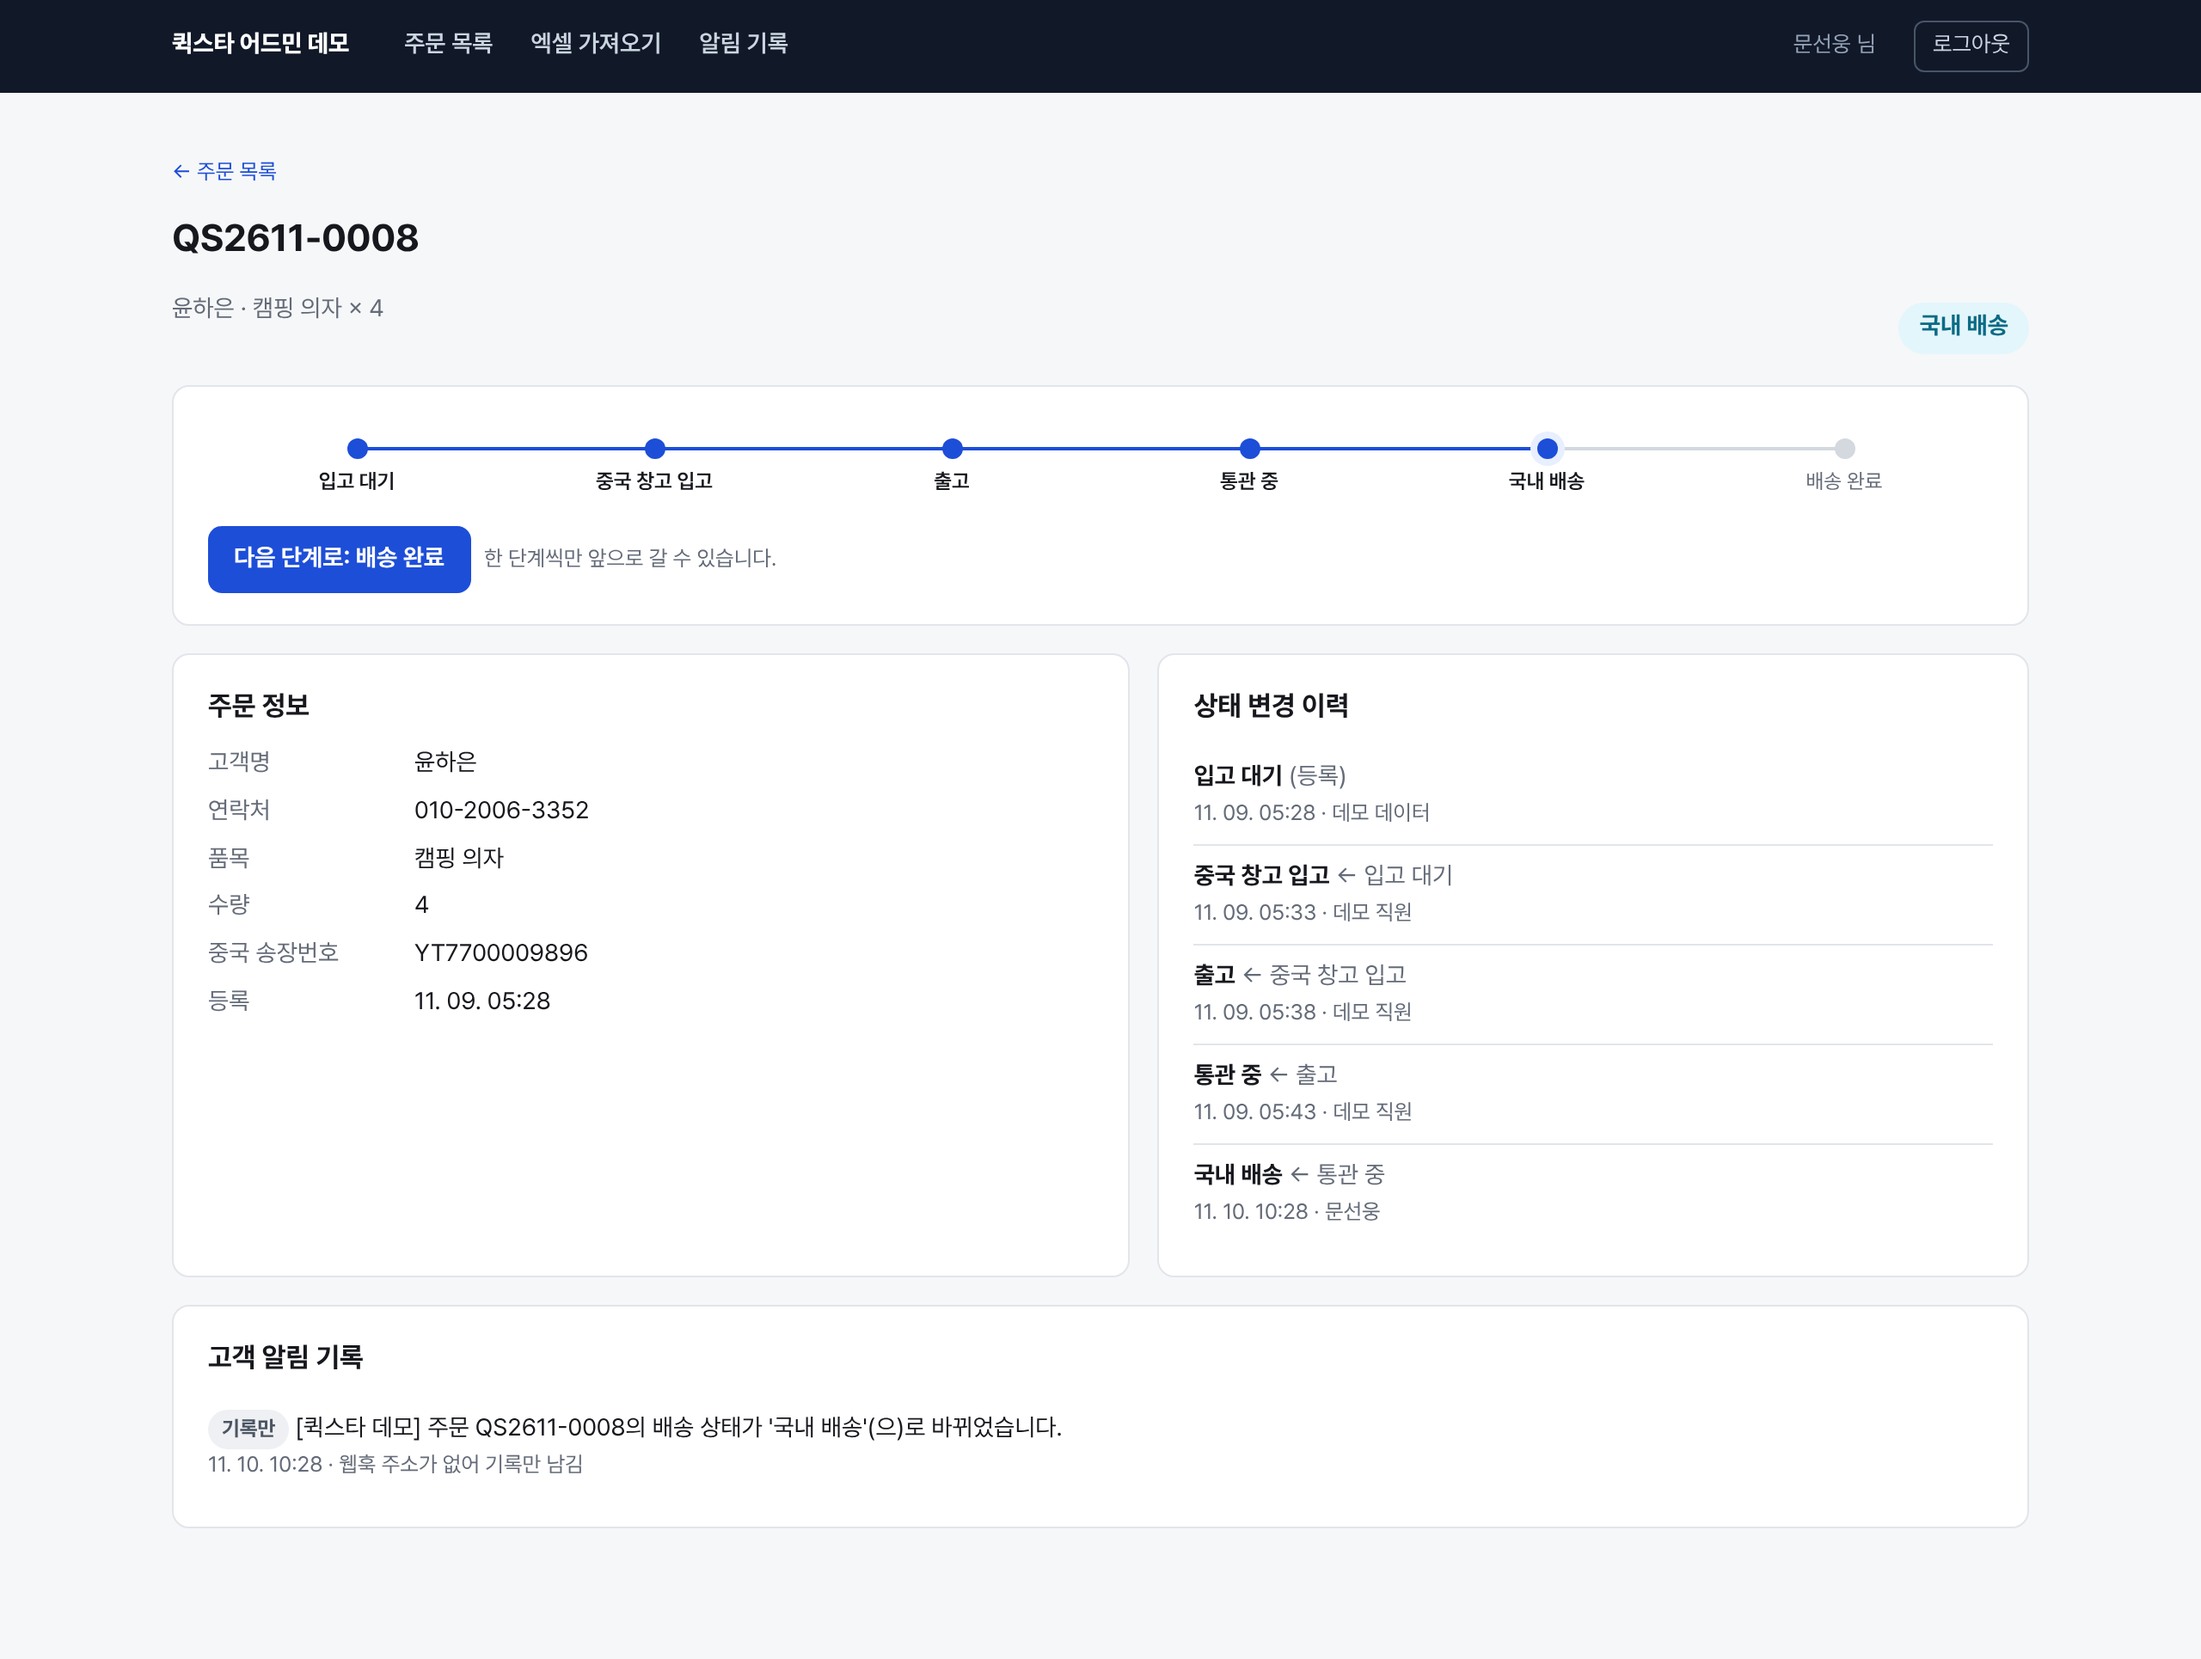
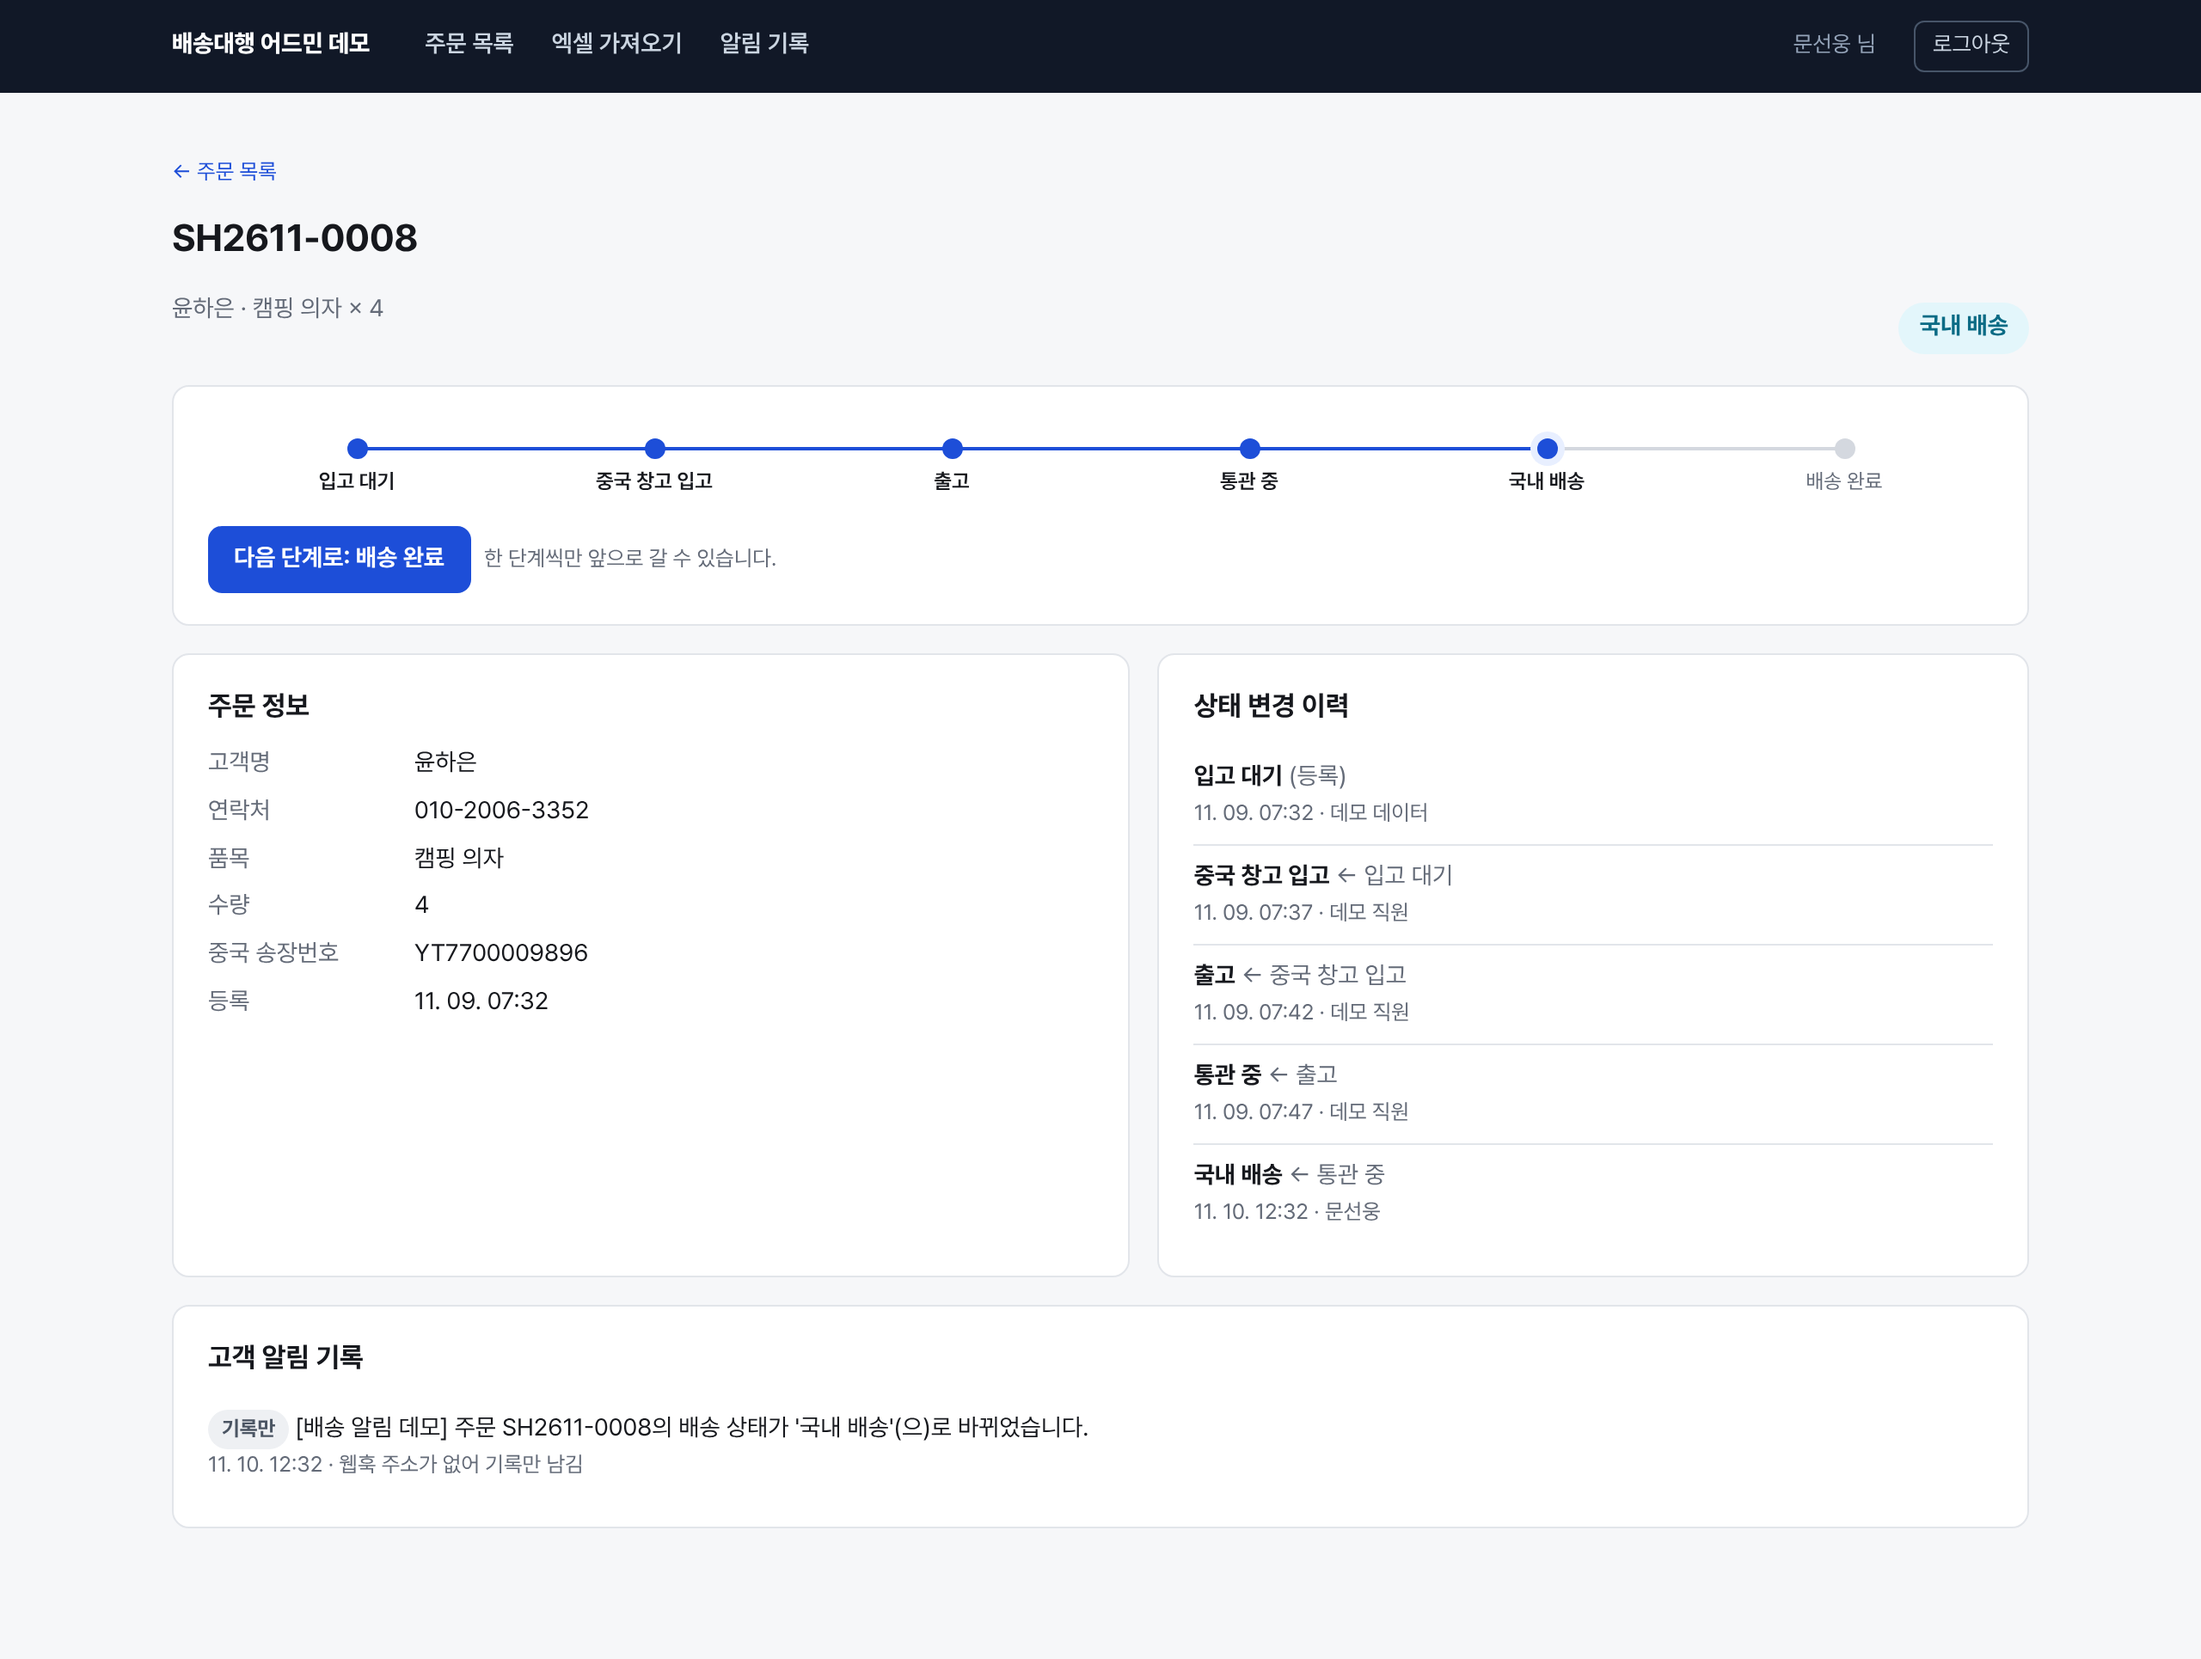
특정 회사 이름을 빼고 일반 배송대행 데모로 이름 변경
Claude-Session: https://claude.ai/code/session_017PvjXC2sv5XSPRNqARSD3C

diff --git a/src/app/page.tsx b/src/app/page.tsx
@@ -5,7 +5,7 @@ export default function Home() {
     <main className="wrap">
       <div className="hero">
         <p className="muted small">연습용 데모 · 가상의 배송대행 주문 데이터</p>
-        <h1>퀵스타 물류 어드민 데모</h1>
+        <h1>배송대행 어드민 데모</h1>
         <p className="muted">중국에서 한국으로 오는 배송대행 주문을 직원이 관리하고, 고객이 직접 배송 상태를 확인하는 화면입니다.</p>
       </div>
       <div className="choices">
@@ -18,7 +18,7 @@ export default function Home() {
           <p className="muted">주문번호와 전화번호 뒷자리 4자리로 내 배송 단계 확인</p>
         </Link>
       </div>
-      <p className="muted small">실제 회사의 데이터나 시스템과는 관계없습니다. 소스: github.com/TechieMoon/quickstar-logistics-admin</p>
+      <p className="muted small">실제 회사의 데이터나 시스템과는 관계없습니다. 소스: github.com/TechieMoon/logistics-admin-demo</p>
     </main>
   );
 }

diff --git a/src/app/track/track-form.tsx b/src/app/track/track-form.tsx
@@ -20,7 +20,7 @@ export function TrackForm() {
     <>
       <form action={action} className="card" key={state ? `${state.orderNo}|${state.last4}|${state.kind}` : "init"}>
         <label htmlFor="order_no" style={{ marginTop: 0 }}>주문번호</label>
-        <input id="order_no" name="order_no" type="text" placeholder="예: QS2611-0012" style={{ width: "100%" }} defaultValue={state?.orderNo} />
+        <input id="order_no" name="order_no" type="text" placeholder="예: SH2611-0012" style={{ width: "100%" }} defaultValue={state?.orderNo} />
         <label htmlFor="last4">전화번호 뒷자리 4자리</label>
         <input id="last4" name="last4" type="text" inputMode="numeric" maxLength={4} placeholder="1234" style={{ width: "100%" }} defaultValue={state?.last4} />
         <button className="btn" style={{ marginTop: 16, width: "100%" }} disabled={pending}>

diff --git a/src/app/track/page.tsx b/src/app/track/page.tsx
@@ -6,12 +6,12 @@ export default function TrackPage() {
   return (
     <>
       <header className="topbar">
-        <div className="in"><Link className="brand" href="/">퀵스타 배송 조회</Link></div>
+        <div className="in"><Link className="brand" href="/">배송 조회 데모</Link></div>
       </header>
       <main className="wrap narrow">
         <h1 style={{ marginTop: 16 }}>내 배송 조회</h1>
         <p className="muted">주문번호와 주문할 때 적은 전화번호 뒷자리 4자리를 넣어 주세요.</p>
-        {demo && <div className="notice info small">데모: 주문번호 QS2611-0008, 뒷자리 4자리 3352</div>}
+        {demo && <div className="notice info small">데모: 주문번호 SH2611-0008, 뒷자리 4자리 3352</div>}
         <TrackForm />
       </main>
     </>

diff --git a/src/lib/notify.ts b/src/lib/notify.ts
@@ -2,7 +2,7 @@ import type { Db } from "./db";
 import { STATUS_LABEL, type Status } from "./status";
 
 export function buildMessage(orderNo: string, status: Status): string {
-  return `[퀵스타 데모] 주문 ${orderNo}의 배송 상태가 '${STATUS_LABEL[status]}'(으)로 바뀌었습니다.`;
+  return `[배송 알림 데모] 주문 ${orderNo}의 배송 상태가 '${STATUS_LABEL[status]}'(으)로 바뀌었습니다.`;
 }
 
 type Fetcher = (url: string, init: RequestInit) => Promise<Response>;

diff --git a/src/app/admin/layout.tsx b/src/app/admin/layout.tsx
@@ -9,7 +9,7 @@ export default async function AdminLayout({ children }: { children: React.ReactN
     <>
       <header className="topbar">
         <div className="in">
-          <Link className="brand" href="/">퀵스타 어드민 데모</Link>
+          <Link className="brand" href="/">배송대행 어드민 데모</Link>
           {name && (
             <>
               <Link href="/admin">주문 목록</Link>

diff --git a/src/lib/seed.ts b/src/lib/seed.ts
@@ -9,7 +9,7 @@ export function demoRows() {
   return Array.from({ length: 36 }, (_, i) => {
     const n = i + 1;
     return {
-      order_no: `QS2611-${String(n).padStart(4, "0")}`,
+      order_no: `SH2611-${String(n).padStart(4, "0")}`,
       customer_name: NAMES[i % NAMES.length],
       phone: `010${String(20000000 + n * 7919).slice(0, 8)}`,
       item_name: ITEMS[(i * 3) % ITEMS.length],

diff --git a/src/app/layout.tsx b/src/app/layout.tsx
@@ -2,7 +2,7 @@ import type { Metadata } from "next";
 import "./globals.css";
 
 export const metadata: Metadata = {
-  title: "퀵스타 물류 어드민 데모",
+  title: "배송대행 어드민 데모",
   description: "배송대행 주문의 상태 관리, 엑셀 가져오기, 고객 조회를 연습한 데모입니다.",
 };
 

diff --git a/README.md b/README.md
@@ -1,7 +1,7 @@
-# 퀵스타 물류 어드민 데모
+# 배송대행 어드민 데모
 
 중국→한국 배송대행 주문을 직원이 관리하고, 고객이 직접 배송 단계를 확인하는 웹 관리 화면 연습 프로젝트입니다.
-(주)퀵스타 "물류 플랫폼 개발 & 업무 자동화" 공고를 읽고, 그 업무를 작게 따라 만들어 본 것입니다.
+물류 회사의 웹 관리 화면·업무 자동화 직무를 준비하면서, 그 일을 작게 따라 만들어 본 것입니다.
 
 > 실제 회사의 데이터·시스템과 관계없습니다. 주문 데이터는 모두 가상입니다.
 
